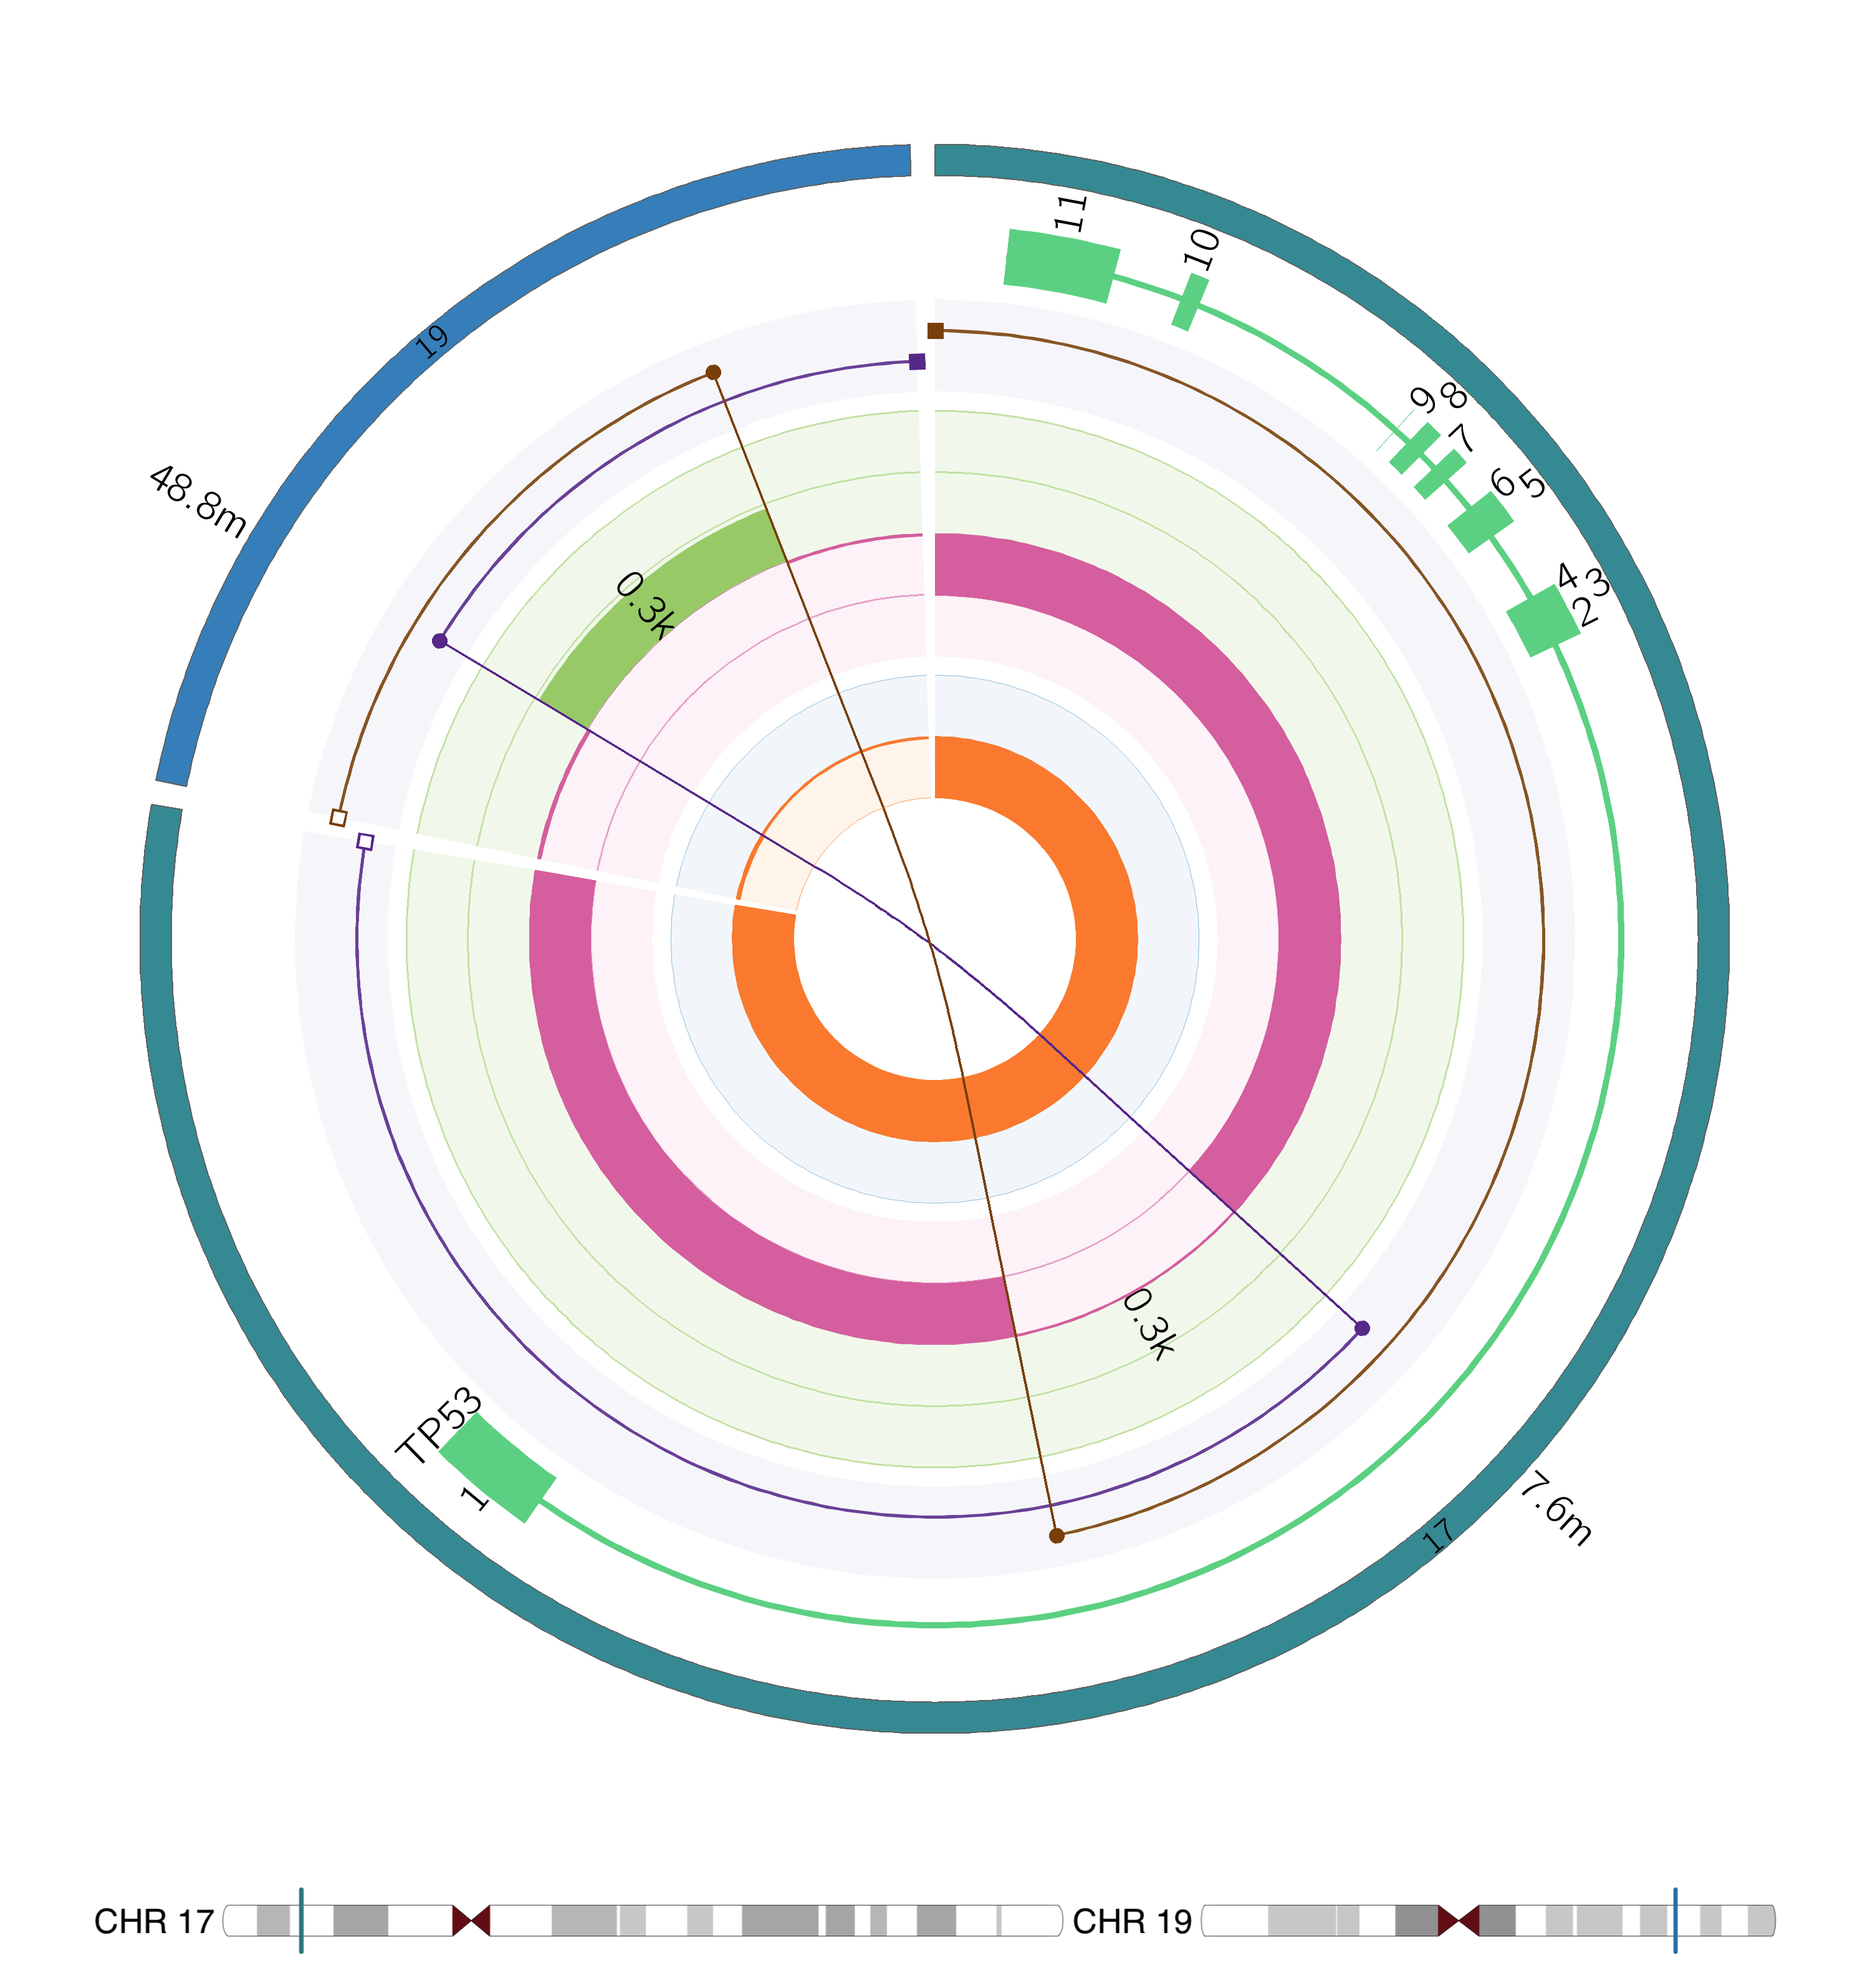
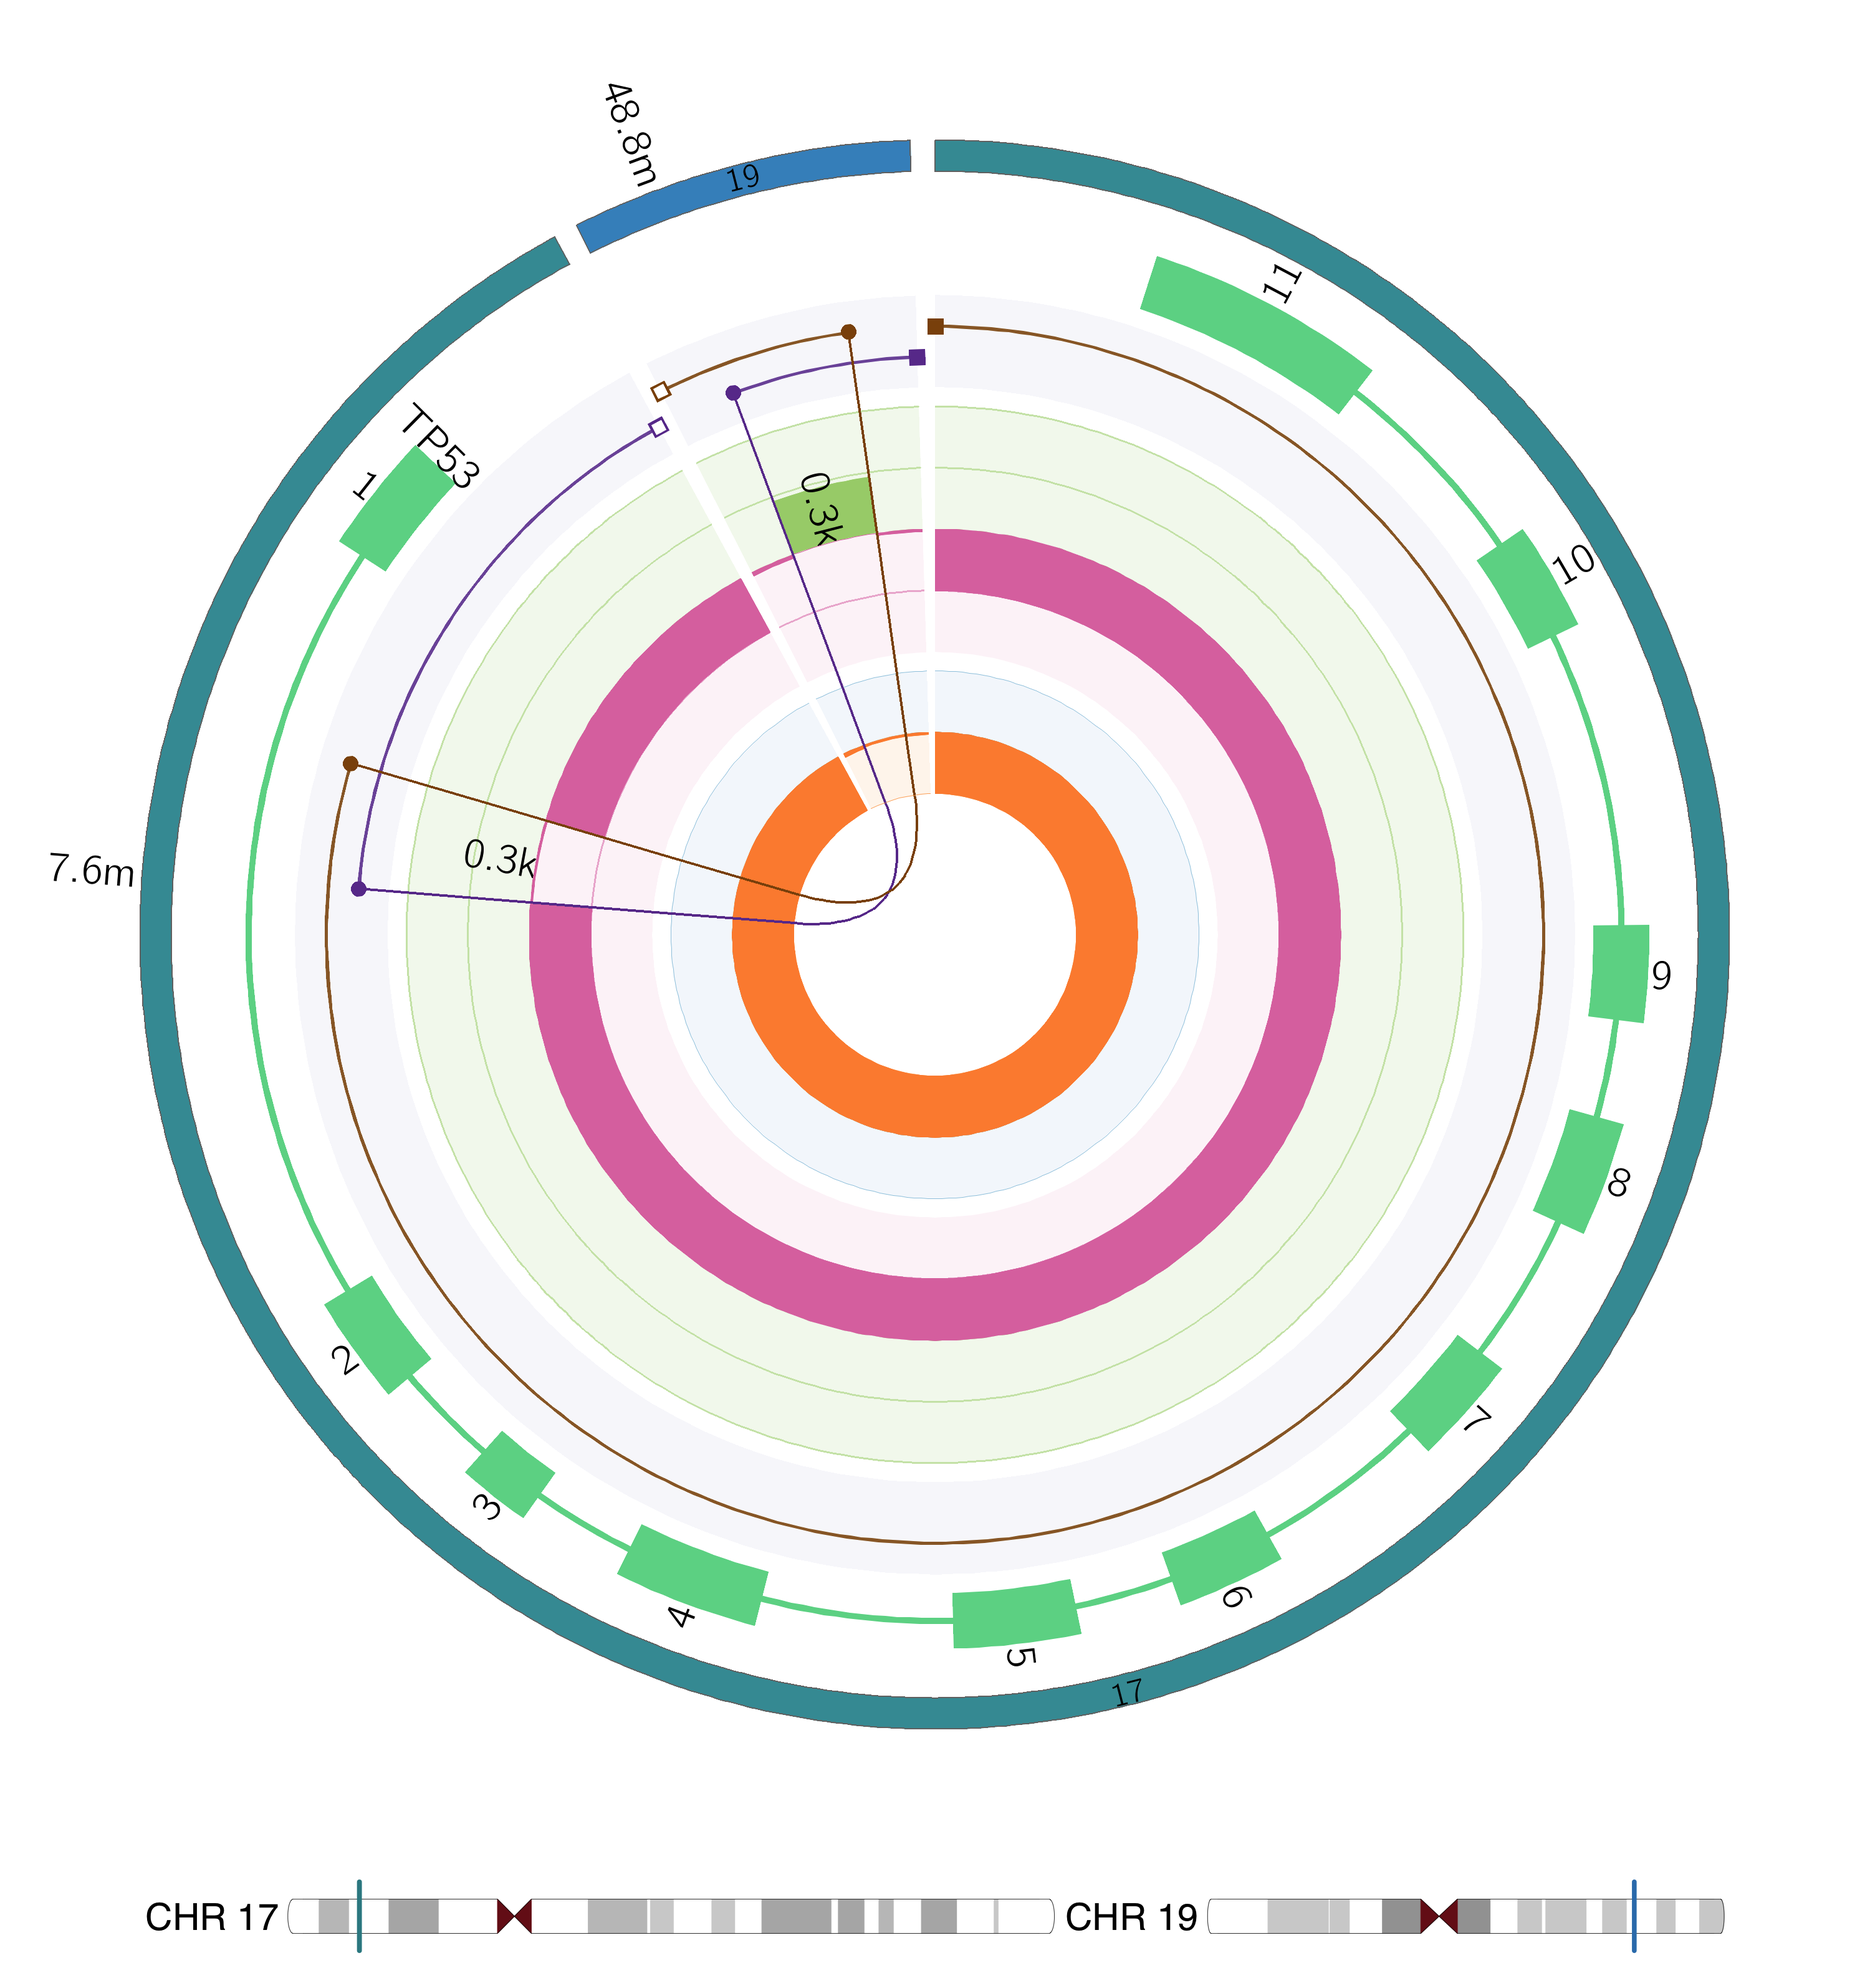
added tmpress2-erg example

diff --git a/sv-linx/README_VIS.md b/sv-linx/README_VIS.md
@@ -177,14 +177,22 @@ fusion_legend_height_per_row| 35 | Height of each row in protein domain legend
 
 ## Default
 
-The default parameters are configured to produce an image that is suitable to be on a single page. 
+The default parameters are configured to produce an image that is suitable for a single page. 
 
 
 ## Smaller
 
-The following figures were constructed with the parameters:
-```
+In order to make the image clear at smaller sizes, we have increased the size of the font and the thickness of the lines. To make room, 
+for the larger font, we have reduced the relative size of the segment track and increased the space allowed for the exons as shown:
 
+```
+-fusion_legend_height_per_row 70
+-segment_relative_size 0.5
+-outer_radius 0.85
+-min_line_size 4 -max_line_size 18
+-min_label_size 45 -max_label_size 50
+-glyph_size 25
+-exon_rank_size 0.04
 
 ```
 
@@ -195,11 +203,16 @@ The following figures were constructed with the parameters:
     <img src="src/main/resources/readme/small4.png" width="400" alt="Small">
 </p>
 
+Starting at the top-left corner and going clockwise, the figures shows 
+**a)** a double minute with a significantly amplified AR gene, 
+**b)** a chromothripsis event,
+**c)** a pseudo-gene insertion, and
+**d)** a bi-allelic disruption of TP53
 
 ## TMPRESS2-ERG
 
-To accommodate the extra room required for the TMPRESS2 gene, this configuration increases the relative size of the gene track, decreases
-the relative size of the segment track and increases the max number of characters in a gene before scaling: 
+To accommodate the extra room required for the TMPRESS2 gene, this TMPRESS2-EFG fusion configuration increases the relative size of the gene 
+track, decreases the relative size of the segment track and increases the max number of characters in a gene before scaling: 
 
 ```
 -gene_relative_size 0.6 -segment_relative_size 0.7 -cna_relative_size 2
